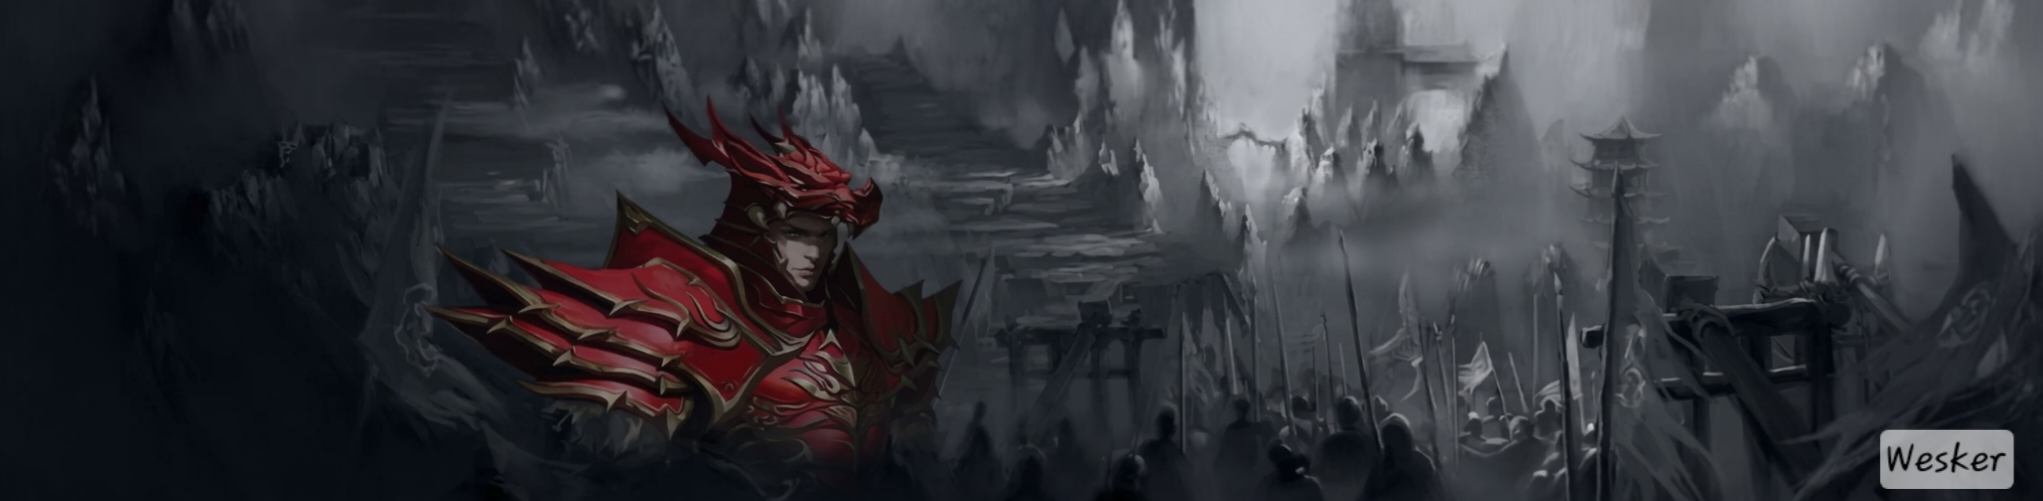
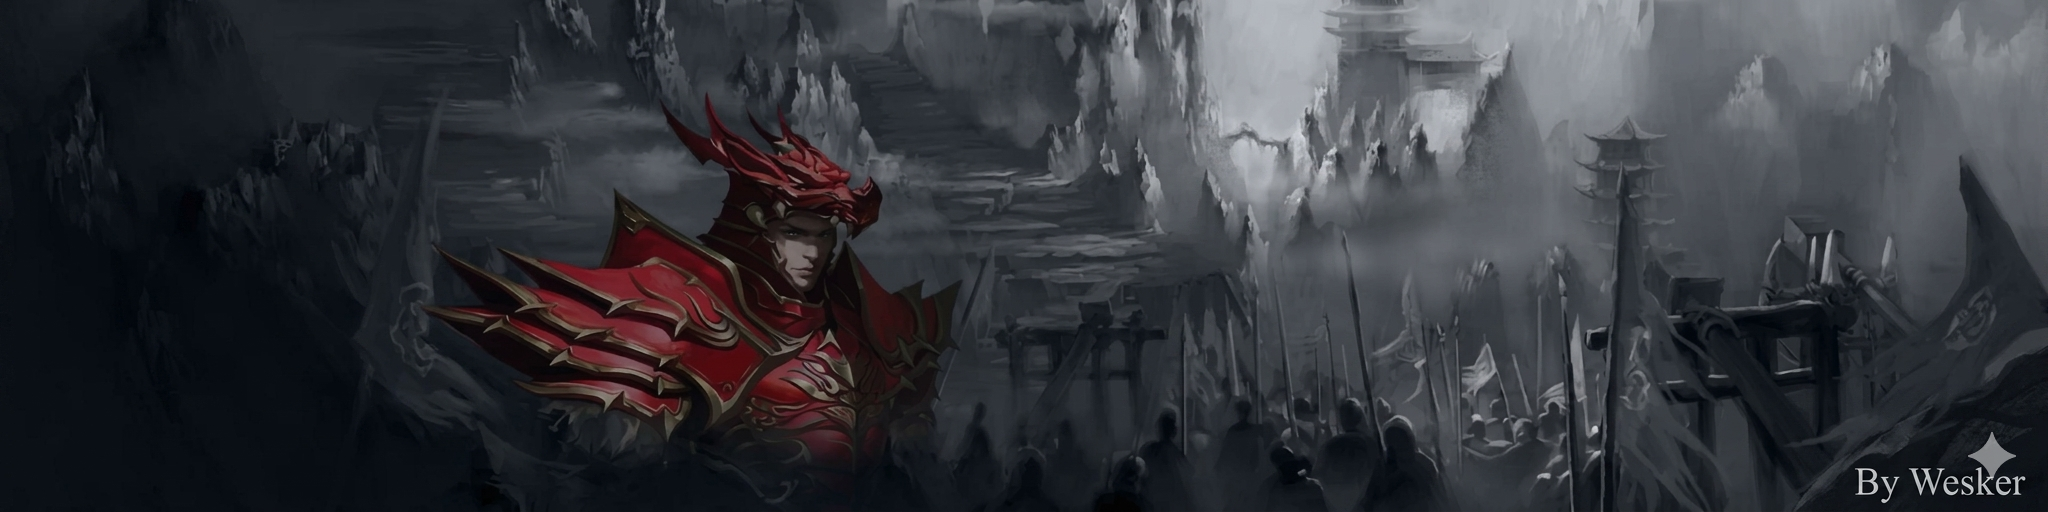
Fix nuevo
Fiexeo no podia agregar items

diff --git a/app.py b/app.py
@@ -99,6 +99,22 @@ def save_data(edited_df, user_id):
         st.error(f"Error al guardar: {e}")
         return False
 
+def add_full(user_id, nombre_set, pieza, kundun, luck, obtiene, enchant, life, sd, dd, dsr, ref, hp, zen):
+    try:
+        conn = get_connection()
+        cursor = conn.cursor()
+        cursor.execute("""
+            INSERT INTO sets (user_id, nombre_set, pieza, kundun, luck, nivel_bs, add_lif, opt_sd, opt_dd, opt_dsr, opt_ref, opt_hp, opt_zen)
+            VALUES (%s, %s, %s, %s, %s, %s, %s, %s, %s, %s, %s, %s, %s)
+        """, (user_id, nombre_set, pieza, kundun, bool(luck), enchant, life, bool(sd), bool(dd), bool(dsr), bool(ref), bool(hp), bool(zen)))
+        conn.commit()
+        cursor.close()
+        conn.close()
+        return True
+    except Exception as e:
+        print(f"[DEBUG] ERROR: {e}")
+        return False
+
 def delete_item(item_id, user_id):
     try:
         conn = get_connection()
@@ -122,21 +138,18 @@ def export_data(user_id):
         st.error(f"Error al exportar: {e}")
         return None
 
-def add_item(user_id, f_set, f_pieza, f_kundun, f_enchant, f_luck, f_life, f_sd, f_dd, f_dsr, f_ref, f_hp, f_zen):
-    try:
-        conn = get_connection()
-        cursor = conn.cursor()
-        cursor.execute("""
-            INSERT INTO sets (user_id, nombre_set, pieza, kundun, obtenido, luck, nivel_bs, add_lif, opt_sd, opt_dd, opt_dsr, opt_ref, opt_hp, opt_zen)
-            VALUES (%s, %s, %s, %s, TRUE, %s, %s, %s, %s, %s, %s, %s, %s, %s)
-        """, (user_id, f_set, f_pieza, f_kundun, 1 if f_luck else 0, f_enchant, f_life, 1 if f_sd else 0, 1 if f_dd else 0, 1 if f_dsr else 0, 1 if f_ref else 0, 1 if f_hp else 0, 1 if f_zen else 0))
-        conn.commit()
-        cursor.close()
-        conn.close()
-        return True
-    except Exception as e:
-        st.error(f"Error: {e}")
-        return False
+def verify_password(plain_pwd, hashed_pwd):
+    return bcrypt.checkpw(plain_pwd.encode(), hashed_pwd.encode())
+
+def get_pieza_market(pieza):
+    mapeo = {
+        "Helm": "Casco",
+        "Armor": "Armadura",
+        "Pants": "Pantalones",
+        "Gloves": "Guantes",
+        "Boots": "Botas"
+    }
+    return mapeo.get(pieza, pieza)
 
 def create_set_complete(user_id, nombre_set, kundun):
     try:
@@ -157,26 +170,16 @@ def create_set_complete(user_id, nombre_set, kundun):
         return False
 
 def find_image(set_name):
-    base_path = os.path.join(os.path.dirname(__file__), "assets")
-    if not os.path.exists(base_path):
-        return None
-    for img in os.listdir(base_path):
-        if img.lower().replace(' ', '').replace('.png', '') == set_name.lower().replace(' ', ''):
-            return os.path.join(base_path, img)
+    try:
+        base_path = os.path.join(os.path.dirname(__file__), "assets")
+        if not os.path.exists(base_path):
+            return None
+        for img in os.listdir(base_path):
+            if img.lower().replace(' ', '').replace('.png', '') == set_name.lower().replace(' ', ''):
+                return os.path.join(base_path, img)
+    except:
+        pass
     return None
-
-def verify_password(plain_pwd, hashed_pwd):
-    return bcrypt.checkpw(plain_pwd.encode(), hashed_pwd.encode())
-
-def get_pieza_market(pieza):
-    mapeo = {
-        "Helm": "Casco",
-        "Armor": "Armadura",
-        "Pants": "Pantalones",
-        "Gloves": "Guantes",
-        "Boots": "Botas"
-    }
-    return mapeo.get(pieza, pieza)
 
 def load_saved_user(username):
     try:
@@ -360,13 +363,13 @@ else:
 if ver_modo == "Tabla":
         column_config = {
             "id": st.column_config.NumberColumn("ID", disabled=True),
-            "obtenido": st.column_config.CheckboxColumn("✅"),
+            "obtenido": st.column_config.CheckboxColumn("OBTENIDO ✅"),
             "nombre_set": "Set",
             "pieza": "Parte",
             "kundun": st.column_config.NumberColumn("K", min_value=1, max_value=5),
             "luck": st.column_config.CheckboxColumn("L"),
             "nivel_bs": st.column_config.NumberColumn("Enchant", min_value=0, max_value=15),
-            "add_lif": st.column_config.NumberColumn("LIFE", min_value=0, max_value=28, step=4),
+            "add_lif": st.column_config.NumberColumn("LIFE", min_value=0, max_value=28),
             "opt_sd": st.column_config.CheckboxColumn("SD"),
             "opt_dd": st.column_config.CheckboxColumn("DD"),
             "opt_dsr": st.column_config.CheckboxColumn("DSR"),
@@ -494,38 +497,57 @@ with st.sidebar:
                 else:
                     st.error("Poné un nombre para el set.")
     
-    st.divider()
-    st.header("➕ Gestión de Inventario")
-    
-    with st.form("nuevo_item_form"):
-        st.write("Registrar nueva pieza")
+    with st.expander("➕ Añadir Items"):
+        c1, c2 = st.columns(2)
+        with c1:
+            nombre_set_nuevo = st.text_input("Set", key="add_set")
+        with c2:
+            pieza_nueva = st.selectbox("Pieza", ["Helm", "Armor", "Pants", "Gloves", "Boots"], key="add_pieza")
         
-        f_set = st.text_input("Nombre del Set", key="input_item_set")
-        f_pieza = st.selectbox("Pieza", ["Helm", "Armor", "Pants", "Gloves", "Boots"], key="input_item_pieza")
-        f_kundun = st.number_input("Nivel de Kundun", min_value=1, max_value=5, value=1, key="input_item_kundun")
+        c3, c4, c5 = st.columns(3)
+        with c3:
+            kundun_nivel = st.number_input("Kundun", min_value=1, max_value=5, value=1, key="add_k")
+        with c4:
+            enchant_val = st.number_input("Enchant", min_value=0, max_value=15, value=0, key="add_enchant")
+        with c5:
+            life_val = st.number_input("Life", min_value=0, max_value=28, value=0, key="add_life")
         
-        col_a, col_b = st.columns(2)
-        with col_a:
-            f_enchant = st.number_input("Enchant (+0 a +15)", min_value=0, max_value=15, value=0, key="input_enchant")
-            f_luck = st.checkbox("Luck (L)", key="input_luck")
-        with col_b:
-            f_life = st.number_input("Life (+4 a +28)", min_value=0, max_value=28, step=4, value=0, key="input_life")
-
-        st.write("--- Opciones Excellent ---")
-        c1, c2, c3 = st.columns(3)
-        f_sd = c1.checkbox("SD", key="opt_sd")
-        f_dd = c2.checkbox("DD", key="opt_dd")
-        f_dsr = c3.checkbox("DSR", key="opt_dsr")
+        luck_nuevo = st.checkbox("Luck", key="add_luck")
         
-        c4, c5, c6 = st.columns(3)
-        f_ref = c4.checkbox("REF", key="opt_ref")
-        f_hp = c5.checkbox("HP", key="opt_hp")
-        f_zen = c6.checkbox("ZEN", key="opt_zen")
+        st.write("Opciones:")
+        o1, o2, o3 = st.columns(3)
+        sd_val = o1.checkbox("SD", key="opt_sd")
+        dd_val = o2.checkbox("DD", key="opt_dd")
+        dsr_val = o3.checkbox("DSR", key="opt_dsr")
         
-        if st.form_submit_button("Añadir al Inventario"):
-            if f_set and f_pieza:
-                if add_item(user_id, f_set, f_pieza, f_kundun, f_enchant, f_luck, f_life, f_sd, f_dd, f_dsr, f_ref, f_hp, f_zen):
-                    st.success(f"¡{f_pieza} {f_set} guardado!")
+        o4, o5, o6 = st.columns(3)
+        hp_val = o4.checkbox("HP", key="opt_hp")
+        ref_val = o5.checkbox("REF", key="opt_ref")
+        zen_val = o6.checkbox("ZEN", key="opt_zen")
+        
+        if st.button("➕ Añadir", key="btn_add_item"):
+            if nombre_set_nuevo and pieza_nueva:
+                luck_v = 1 if luck_nuevo else 0
+                obt_v = 0
+                sd_v = 1 if sd_val else 0
+                dd_v = 1 if dd_val else 0
+                dsr_v = 1 if dsr_val else 0
+                ref_v = 1 if ref_val else 0
+                hp_v = 1 if hp_val else 0
+                zen_v = 1 if zen_val else 0
+                k_v = int(kundun_nivel)
+                e_v = int(enchant_val)
+                l_v = int(life_val)
+                
+                ok = add_full(user_id, nombre_set_nuevo, pieza_nueva, k_v, luck_v, obt_v, e_v, l_v, sd_v, dd_v, dsr_v, ref_v, hp_v, zen_v)
+                
+                if ok:
+                    st.success(f"¡{pieza_nueva} {nombre_set_nuevo} añadido!")
                     st.rerun()
+                else:
+                    st.error("Error al guardar")
             else:
-                st.error("Faltan datos obligatorios (Set y Pieza).")
+                st.error("Completa Set y Pieza")
+    
+    st.divider()
+    st.header("📤 Exportar Datos")